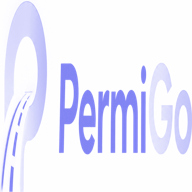
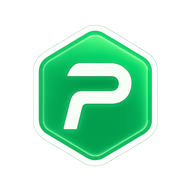
feat(pwa): icone ecran d'accueil = badge P vert + tuto A2HS a l'inscription
Icones PWA (apple-touch 180, icon-192/512, maskable) generees depuis permigo-badge-icon.png; manifest + apple-touch-icon repointes (plus le logo horizontal qui s'ecrasait). Nouveau tuto add-to-home (choix iPhone/Android + etapes claires), affiche en fin d'inscription pour tous les roles, auto-skip si deja installe. Capture beforeinstallprompt dans utils/pwa.js.

diff --git a/permigo-game/src/components/common/add-to-home.js b/permigo-game/src/components/common/add-to-home.js
@@ -1,0 +1,145 @@
+// ═══════════════════════════════════════════════════════════════
+// Tuto "Ajouter PermiGo à l'écran d'accueil"
+// Affiché en fin d'inscription (tous les rôles) pour créer de l'engagement.
+// Demande d'abord la plateforme (iPhone / Android) puis explique pas à pas.
+// Auto-skip si l'app tourne déjà en mode installé (standalone).
+//
+// Usage : renderAddToHome(root, { onDone })
+//   - root   : élément hôte (on remplace son innerHTML)
+//   - onDone : callback appelé quand l'utilisateur continue vers l'app
+// ═══════════════════════════════════════════════════════════════
+import { isStandalone, guessPlatform, canPromptInstall, promptInstall } from '@/utils/pwa.js';
+import { track } from '@/services/analytics.js';
+
+const BADGE = '/skins/avatars/permigo-badge-icon.png';
+
+// ─── Petits pictos inline (le jeu d'icônes n'a pas "partager") ──────
+const SHARE_SVG = `<svg viewBox="0 0 24 24" width="22" height="22" fill="none" stroke="currentColor" stroke-width="2" stroke-linecap="round" stroke-linejoin="round"><path d="M12 16V4"/><path d="m8 8 4-4 4 4"/><path d="M5 12v7a1 1 0 0 0 1 1h12a1 1 0 0 0 1-1v-7"/></svg>`;
+const DOTS_SVG  = `<svg viewBox="0 0 24 24" width="22" height="22" fill="currentColor"><circle cx="12" cy="5" r="2"/><circle cx="12" cy="12" r="2"/><circle cx="12" cy="19" r="2"/></svg>`;
+const PLUS_SVG  = `<svg viewBox="0 0 24 24" width="22" height="22" fill="none" stroke="currentColor" stroke-width="2" stroke-linecap="round" stroke-linejoin="round"><rect x="3" y="3" width="18" height="18" rx="4"/><path d="M12 8v8M8 12h8"/></svg>`;
+
+const STYLE = `<style>
+  .a2hs {
+    min-height: 100dvh;
+    background: linear-gradient(180deg, var(--su2, #eef1ff) 0%, #fff 100%);
+    padding: 40px 22px max(40px, env(safe-area-inset-bottom));
+    font-family: 'Inter', sans-serif;
+    color: var(--ink, #11131f);
+    display: flex; flex-direction: column; align-items: center;
+  }
+  .a2hs-badge {
+    width: 96px; height: 96px; object-fit: contain;
+    filter: drop-shadow(0 10px 22px rgba(16,185,129,.35));
+    animation: a2hsPop .5s cubic-bezier(.2,.9,.3,1.2) both;
+  }
+  @keyframes a2hsPop { from { transform: scale(.6); opacity: 0; } to { transform: scale(1); opacity: 1; } }
+  .a2hs-title { font: 800 24px/1.2 'Plus Jakarta Sans', sans-serif; text-align: center; margin: 18px 0 6px; }
+  .a2hs-sub   { font-size: 15px; line-height: 1.5; text-align: center; color: var(--mu2, #5b6072); max-width: 340px; margin-bottom: 24px; }
+  .a2hs-card  { width: 100%; max-width: 400px; background: #fff; border: 1px solid rgba(0,0,0,.07);
+                border-radius: 20px; padding: 18px; box-shadow: 0 6px 24px rgba(20,20,50,.06); }
+  /* Sélecteur plateforme */
+  .a2hs-seg { display: flex; gap: 8px; background: var(--su2, #eef1ff); padding: 5px; border-radius: 14px; margin-bottom: 18px; }
+  .a2hs-seg-btn { flex: 1; border: 0; background: transparent; padding: 11px 8px; border-radius: 10px;
+                  font: 700 14px/1 'Inter', sans-serif; color: var(--mu2, #5b6072); cursor: pointer; transition: .15s; }
+  .a2hs-seg-btn.active { background: #fff; color: var(--ink, #11131f); box-shadow: 0 2px 8px rgba(20,20,50,.1); }
+  /* Étapes */
+  .a2hs-step { display: flex; gap: 13px; align-items: flex-start; padding: 11px 0; }
+  .a2hs-step + .a2hs-step { border-top: 1px solid rgba(0,0,0,.06); }
+  .a2hs-num { flex: 0 0 26px; width: 26px; height: 26px; border-radius: 50%;
+              background: #22c55e; color: #fff; font: 800 14px/26px 'Inter'; text-align: center; }
+  .a2hs-step-txt { font-size: 14.5px; line-height: 1.45; padding-top: 2px; }
+  .a2hs-glyph { display: inline-flex; vertical-align: -5px; margin: 0 3px; padding: 3px;
+                border-radius: 7px; background: var(--su2, #eef1ff); color: #4f46e5; }
+  /* Bouton install natif */
+  .a2hs-install { width: 100%; margin: 4px 0 14px; border: 0; border-radius: 14px;
+                  background: linear-gradient(135deg, #22c55e, #16a34a); color: #fff;
+                  font: 800 16px/1 'Inter'; padding: 16px; cursor: pointer;
+                  box-shadow: 0 8px 20px rgba(34,197,94,.35); }
+  .a2hs-install:active { transform: translateY(1px); }
+  /* Actions bas */
+  .a2hs-continue { width: 100%; max-width: 400px; margin-top: 22px; border: 0; border-radius: 14px;
+                   background: var(--ink, #11131f); color: #fff; font: 800 16px/1 'Inter'; padding: 16px; cursor: pointer; }
+  .a2hs-later { margin-top: 14px; background: none; border: 0; color: var(--mu2, #5b6072);
+                font: 600 14px/1 'Inter'; text-decoration: underline; cursor: pointer; }
+</style>`;
+
+export function renderAddToHome(root, { onDone } = {}) {
+  const done = () => { try { onDone?.(); } catch {} };
+
+  // Déjà installée → on saute le tuto.
+  if (isStandalone()) { done(); return; }
+
+  let platform = guessPlatform();
+  if (platform === 'other') platform = 'ios'; // défaut raisonnable
+
+  track('a2hs.shown', { guessed: guessPlatform() });
+
+  root.innerHTML = `${STYLE}
+    <div class="a2hs">
+      <img class="a2hs-badge" src="${BADGE}" alt="PermiGo" />
+      <h1 class="a2hs-title">Ajoute PermiGo à ton écran d'accueil</h1>
+      <p class="a2hs-sub">Ouvre l'app d'un seul geste, comme une vraie appli — et garde ta progression à portée de main chaque jour.</p>
+
+      <div class="a2hs-card">
+        <div class="a2hs-seg" role="tablist">
+          <button class="a2hs-seg-btn" data-plat="ios" type="button">iPhone (iOS)</button>
+          <button class="a2hs-seg-btn" data-plat="android" type="button">Android</button>
+        </div>
+        <div class="a2hs-steps" id="a2hs-steps"></div>
+      </div>
+
+      <button class="a2hs-continue" id="a2hs-continue" type="button">Continuer vers l'app</button>
+      <button class="a2hs-later" id="a2hs-later" type="button">Je le ferai plus tard</button>
+    </div>`;
+
+  const stepsEl = root.querySelector('#a2hs-steps');
+
+  function stepsIOS() {
+    return `
+      <div class="a2hs-step"><div class="a2hs-num">1</div><div class="a2hs-step-txt">Dans <strong>Safari</strong>, touche le bouton Partager <span class="a2hs-glyph">${SHARE_SVG}</span> en bas de l'écran.</div></div>
+      <div class="a2hs-step"><div class="a2hs-num">2</div><div class="a2hs-step-txt">Fais défiler et choisis <strong>« Sur l'écran d'accueil »</strong>.</div></div>
+      <div class="a2hs-step"><div class="a2hs-num">3</div><div class="a2hs-step-txt">Touche <strong>« Ajouter »</strong> en haut à droite. C'est fait !</div></div>`;
+  }
+
+  function stepsAndroid() {
+    const installBtn = canPromptInstall()
+      ? `<button class="a2hs-install" id="a2hs-install" type="button">Installer l'app en 1 tap</button>`
+      : '';
+    return `${installBtn}
+      <div class="a2hs-step"><div class="a2hs-num">1</div><div class="a2hs-step-txt">Dans <strong>Chrome</strong>, touche le menu <span class="a2hs-glyph">${DOTS_SVG}</span> en haut à droite.</div></div>
+      <div class="a2hs-step"><div class="a2hs-num">2</div><div class="a2hs-step-txt">Choisis <strong>« Ajouter à l'écran d'accueil »</strong> <span class="a2hs-glyph">${PLUS_SVG}</span> (ou « Installer l'application »).</div></div>
+      <div class="a2hs-step"><div class="a2hs-num">3</div><div class="a2hs-step-txt">Confirme avec <strong>« Ajouter »</strong>. C'est fait !</div></div>`;
+  }
+
+  function renderSteps() {
+    root.querySelectorAll('.a2hs-seg-btn').forEach(b =>
+      b.classList.toggle('active', b.dataset.plat === platform));
+    stepsEl.innerHTML = platform === 'android' ? stepsAndroid() : stepsIOS();
+
+    const installBtn = root.querySelector('#a2hs-install');
+    if (installBtn) {
+      installBtn.addEventListener('click', async () => {
+        installBtn.disabled = true;
+        installBtn.textContent = 'Installation…';
+        const outcome = await promptInstall();
+        track('a2hs.install_prompt', { outcome });
+        if (outcome === 'accepted') { done(); return; }
+        installBtn.disabled = false;
+        installBtn.textContent = "Installer l'app en 1 tap";
+      });
+    }
+  }
+
+  root.querySelectorAll('.a2hs-seg-btn').forEach(btn => {
+    btn.addEventListener('click', () => {
+      platform = btn.dataset.plat;
+      track('a2hs.platform_selected', { platform });
+      renderSteps();
+    });
+  });
+
+  root.querySelector('#a2hs-continue').addEventListener('click', () => { track('a2hs.continue'); done(); });
+  root.querySelector('#a2hs-later').addEventListener('click', () => { track('a2hs.later'); done(); });
+
+  renderSteps();
+}

diff --git a/permigo-game/src/utils/pwa.js b/permigo-game/src/utils/pwa.js
@@ -1,0 +1,59 @@
+// ═══════════════════════════════════════════════════════════════
+// PWA — détection "installée" (standalone), plateforme, et capture
+// de l'event beforeinstallprompt (Android/Chrome) pour un install natif.
+// Importé une fois dans main.js pour que l'écoute soit active très tôt.
+// ═══════════════════════════════════════════════════════════════
+
+let _deferredPrompt = null;
+
+// L'event arrive tôt après le chargement. On le capture et on empêche
+// la mini-infobar par défaut pour déclencher l'install nous-mêmes plus tard.
+window.addEventListener('beforeinstallprompt', (e) => {
+  e.preventDefault();
+  _deferredPrompt = e;
+});
+
+// Une fois installée, on oublie le prompt.
+window.addEventListener('appinstalled', () => {
+  _deferredPrompt = null;
+});
+
+// L'app tourne-t-elle déjà comme app installée (écran d'accueil) ?
+export function isStandalone() {
+  try {
+    return window.matchMedia?.('(display-mode: standalone)').matches
+        || window.navigator.standalone === true;
+  } catch {
+    return false;
+  }
+}
+
+// 'ios' | 'android' | 'other' — simple heuristique pour PRÉ-sélectionner
+// le bon onglet du tuto (l'utilisateur peut toujours choisir manuellement).
+export function guessPlatform() {
+  const ua = navigator.userAgent || '';
+  const iOS = /iphone|ipad|ipod/i.test(ua)
+    || (/Macintosh/i.test(ua) && typeof document !== 'undefined' && 'ontouchend' in document);
+  if (iOS) return 'ios';
+  if (/android/i.test(ua)) return 'android';
+  return 'other';
+}
+
+// Un install natif est-il dispo (Chrome Android surtout) ?
+export function canPromptInstall() {
+  return !!_deferredPrompt;
+}
+
+// Déclenche l'install natif. Retourne 'accepted' | 'dismissed' | 'unavailable'.
+export async function promptInstall() {
+  if (!_deferredPrompt) return 'unavailable';
+  _deferredPrompt.prompt();
+  try {
+    const { outcome } = await _deferredPrompt.userChoice;
+    _deferredPrompt = null;
+    return outcome || 'dismissed';
+  } catch {
+    _deferredPrompt = null;
+    return 'dismissed';
+  }
+}

diff --git a/permigo-game/src/pages/public/signup.js b/permigo-game/src/pages/public/signup.js
@@ -438,17 +438,10 @@ function renderForm(root, invitation, token) {
         return;
       }
 
-      // 4. Succès + redirection
-      root.innerHTML = `${STYLE}
-        <div class="sg">
-          <div class="sg-card" style="text-align:center">
-            <div style="margin-bottom:12px;color:var(--gr)">${icon('check-circle',{size:44})}</div>
-            <h1 class="sg-title">Bienvenue dans PermiGo !</h1>
-            <p class="sg-sub">Ton compte est activé. On te redirige…</p>
-          </div>
-        </div>`;
-
-      setTimeout(() => { window.location.href = '/#'; window.location.reload(); }, 1500);
+      // 4. Succès → tuto "Ajouter à l'écran d'accueil" (engagement), puis redirection
+      const goToApp = () => { window.location.href = '/#'; window.location.reload(); };
+      const { renderAddToHome } = await import('@/components/common/add-to-home.js');
+      renderAddToHome(root, { onDone: goToApp });
 
     } catch (e) {
       console.error('[signup] failed', e);

diff --git a/permigo-game/index.html b/permigo-game/index.html
@@ -36,8 +36,8 @@
 
   <!-- ╔══ PWA ══╗ -->
   <link rel="manifest" href="%BASE_URL%manifest.webmanifest" />
-  <link rel="apple-touch-icon" href="%BASE_URL%permigo-logo.png" />
-  <link rel="apple-touch-icon" sizes="192x192" href="%BASE_URL%icon-192.png" />
+  <link rel="apple-touch-icon" href="%BASE_URL%apple-touch-icon.png" />
+  <link rel="apple-touch-icon" sizes="180x180" href="%BASE_URL%apple-touch-icon.png" />
   <meta name="apple-mobile-web-app-capable" content="yes" />
   <meta name="apple-mobile-web-app-status-bar-style" content="black-translucent" />
   <meta name="apple-mobile-web-app-title" content="PermiGo" />

diff --git a/permigo-game/src/main.js b/permigo-game/src/main.js
@@ -14,6 +14,7 @@ import { initThemeEarly, syncFromPrefs } from '@/utils/theme.js';
 import { initGameState, initEquippedTheme } from '@/utils/game-state.js';
 import { mountCookieBanner } from '@/components/common/cookie-banner.js';
 import { initPosthog } from '@/services/posthog.js';
+import '@/utils/pwa.js'; // capte beforeinstallprompt très tôt
 
 // Apply saved/system theme before any rendering (reads localStorage, synchronous)
 initThemeEarly();
